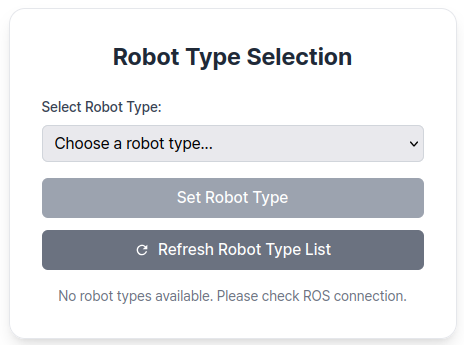
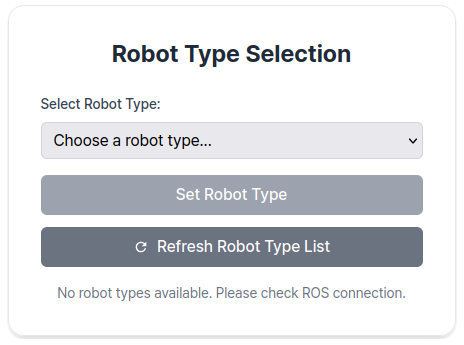
Update robot type selection image and add training loss monitoring in AI Worker and OMY documentation

diff --git a/docs/omy/model_training_omy.md b/docs/omy/model_training_omy.md
@@ -91,7 +91,7 @@ Open your web browser and navigate to the Web UI (Physical AI Manager).
 
 On the **Home** page, select the type of robot you are using.
 
-  <img src="/imitation_learning/web_ui_robot_type_selection.png" alt="Web UI" style="width: 40%; ">
+  <img src="/imitation_learning/web_ui_robot_type_selection.png" alt="Web UI" style="width: 50%; display: block; margin: 0 auto;">
 
 #### c. Train the Policy
 
@@ -143,6 +143,9 @@ style="width: 50%; ">
 :::
 
 Click `Start Training` to begin training the policy. The training results will be saved in the `physical_ai_tools/lerobot/outputs/train/` directory.
+
+You can monitor the training loss while training is in progress. 
+  <img src="/imitation_learning/web_ui_training_loss.png" alt="Web UI" style="width: 50%; display: block; margin: 0 auto;">
 
 ### (Optional) Uploading Checkpoints to Hugging Face
 

diff --git a/docs/ai_worker/model_training_ai_worker.md b/docs/ai_worker/model_training_ai_worker.md
@@ -210,7 +210,7 @@ or<br>
 
 On the **Home** page, select the type of robot you are using.
 
-  <img src="/imitation_learning/web_ui_robot_type_selection.png" alt="Web UI" style="width: 40%; ">
+  <img src="/imitation_learning/web_ui_robot_type_selection.png" alt="Web UI" style="width: 50%; display: block; margin: 0 auto;">
 
 #### c. Train the Policy
 
@@ -267,6 +267,9 @@ The training results will be saved in the `~/physical_ai_tools/lerobot/outputs/t
 == USER PC
 The training results will be saved in the `<your_workspace>/physical_ai_tools/lerobot/outputs/train/` directory.
 :::
+
+You can monitor the training loss while training is in progress. 
+  <img src="/imitation_learning/web_ui_training_loss.png" alt="Web UI" style="width: 50%; display: block; margin: 0 auto;">
 
 ### (Optional) Uploading Checkpoints to Hugging Face
 
